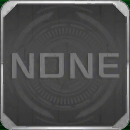
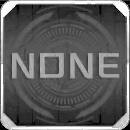
reduced none.png filesize

diff --git a/preprocessing/reducify.m b/preprocessing/reducify.m
@@ -5,7 +5,7 @@ imdir = '/Users/Krazete/Desktop/takatomon/preprocessing/img/';
 reimdir = '/Users/Krazete/Desktop/takatomon/img/';
 subdir = 'mon';
 
-colors = 64;
+colors = 64; % 8 for mon/none.png
 dith = 'nodither';
 
 mkdir([reimdir, subdir]);
